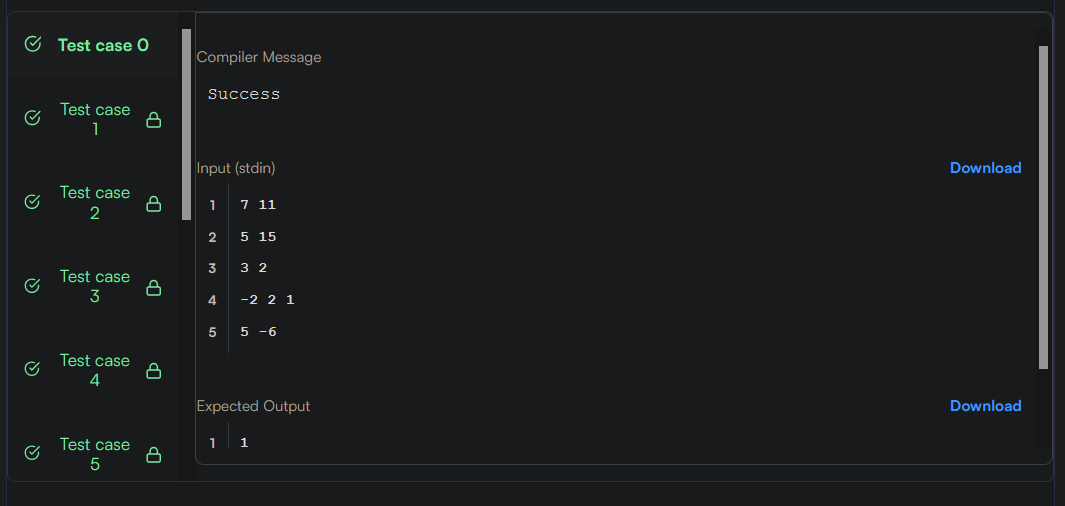
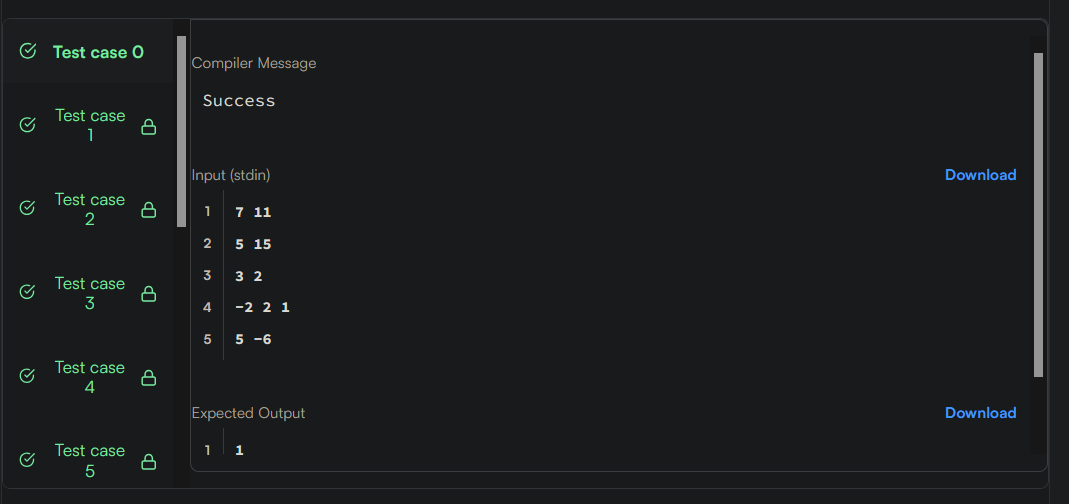
task05 results

diff --git a/src/hackerrank/task05.rs b/src/hackerrank/task05.rs
@@ -1,1 +1,75 @@
 // https://www.hackerrank.com/challenges/apple-and-orange/problem
+use std::io::{self, BufRead};
+
+/*
+ * Complete the 'countApplesAndOranges' function below.
+ *
+ * The function accepts following parameters:
+ *  1. INTEGER s
+ *  2. INTEGER t
+ *  3. INTEGER a
+ *  4. INTEGER b
+ *  5. INTEGER_ARRAY apples
+ *  6. INTEGER_ARRAY oranges
+ */
+
+fn count_apples_and_oranges(s: i32, t: i32, a: i32, b: i32, apples: &[i32], oranges: &[i32]) {
+    let mut apples_count = 0;
+    let mut oranges_count = 0;
+
+    for i in 0..apples.len() {
+        let apple_position = apples[i] + a;
+        if apple_position >= s && apple_position <= t {apples_count += 1}
+    }
+
+    for i in 0..oranges.len() {
+        let orange_position = oranges[i] + b;
+        if orange_position >= s && orange_position <= t {oranges_count += 1}
+    }
+
+    println!("{}\n{}", apples_count, oranges_count);
+}
+
+fn main() {
+    let stdin = io::stdin();
+    let mut stdin_iterator = stdin.lock().lines();
+
+    let first_multiple_input: Vec<String> = stdin_iterator.next().unwrap().unwrap()
+        .split(' ')
+        .map(|s| s.to_string())
+        .collect();
+
+    let s = first_multiple_input[0].trim().parse::<i32>().unwrap();
+
+    let t = first_multiple_input[1].trim().parse::<i32>().unwrap();
+
+    let second_multiple_input: Vec<String> = stdin_iterator.next().unwrap().unwrap()
+        .split(' ')
+        .map(|s| s.to_string())
+        .collect();
+
+    let a = second_multiple_input[0].trim().parse::<i32>().unwrap();
+
+    let b = second_multiple_input[1].trim().parse::<i32>().unwrap();
+
+    stdin_iterator.next();
+
+    let apples: Vec<i32> = stdin_iterator.next().unwrap().unwrap()
+        .trim_end()
+        .split(' ')
+        .map(|s| s.to_string().parse::<i32>().unwrap())
+        .collect();
+
+    let oranges: Vec<i32> = stdin_iterator.next().unwrap().unwrap()
+        .trim_end()
+        .split(' ')
+        .map(|s| s.to_string().parse::<i32>().unwrap())
+        .collect();
+
+    count_apples_and_oranges(s, t, a, b, &apples, &oranges);
+}
+
+#[test]
+fn test() {
+    main()
+}
